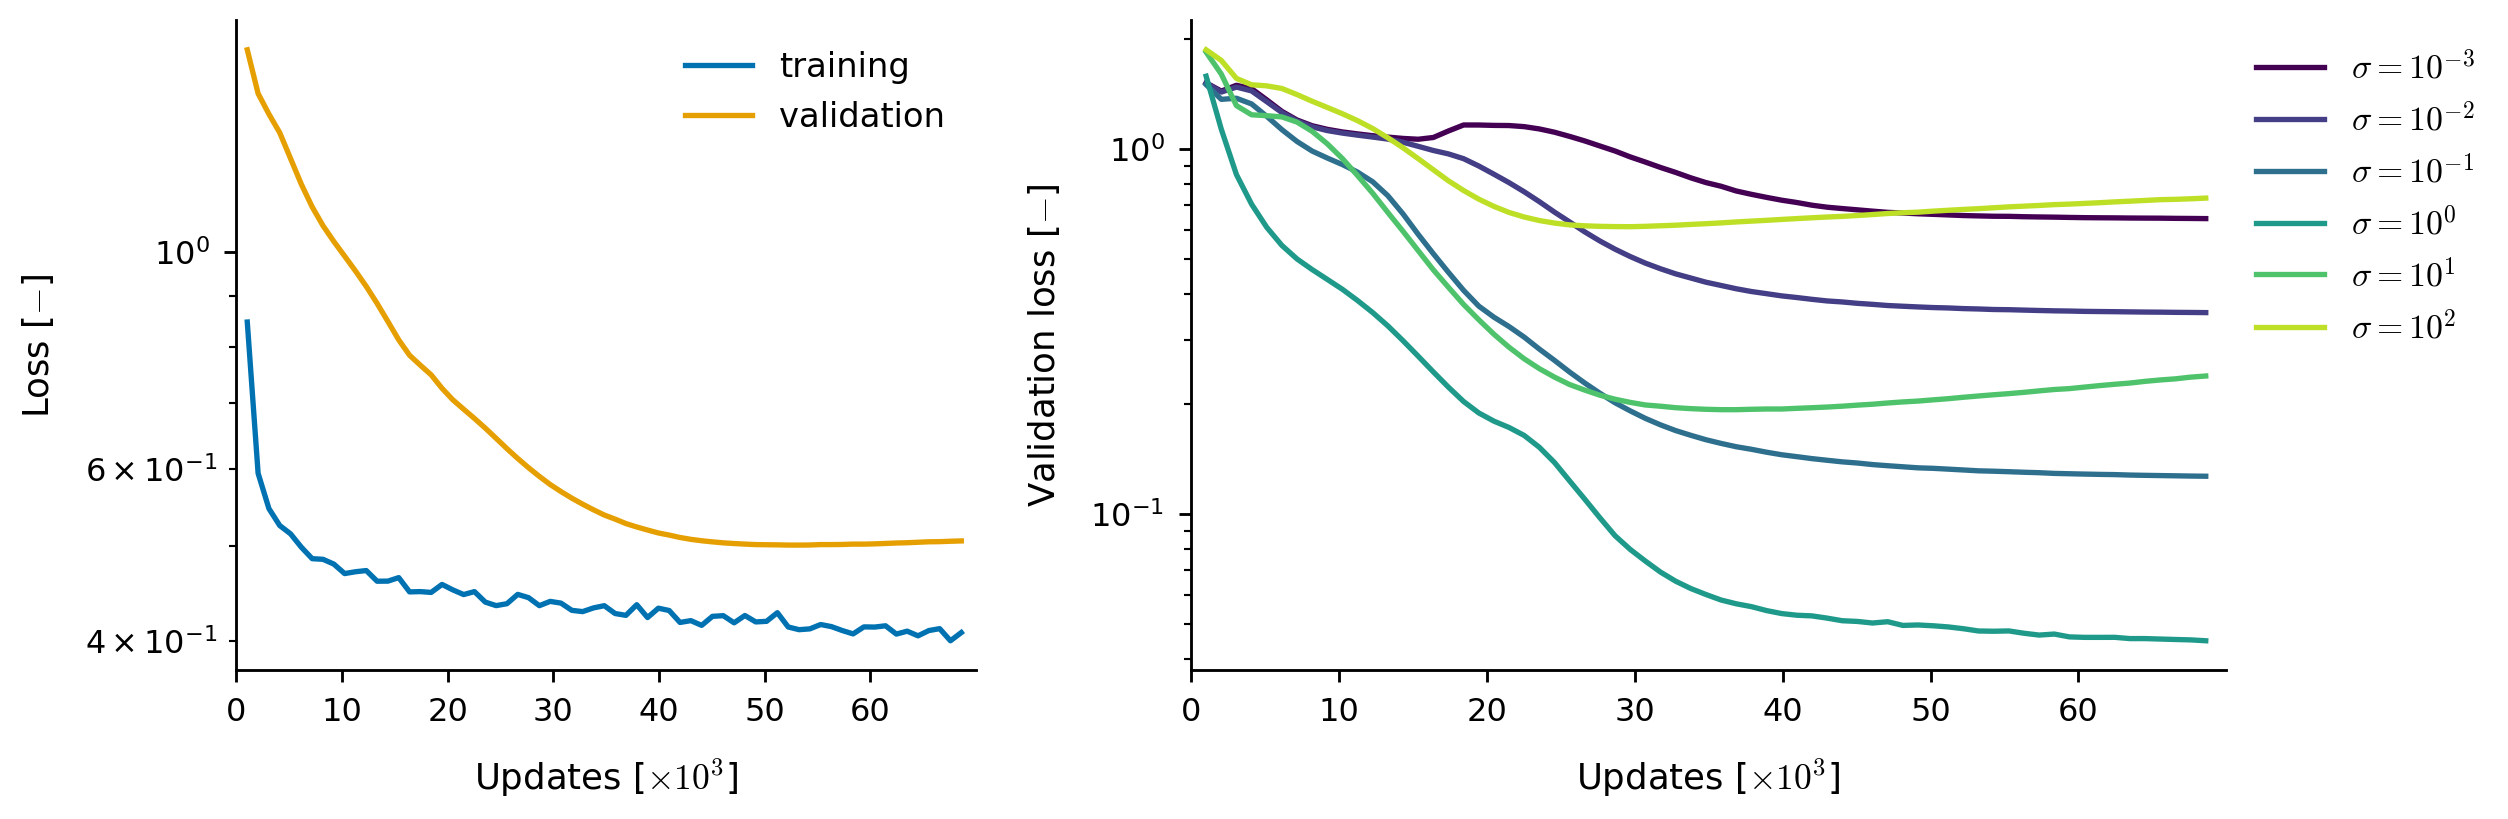
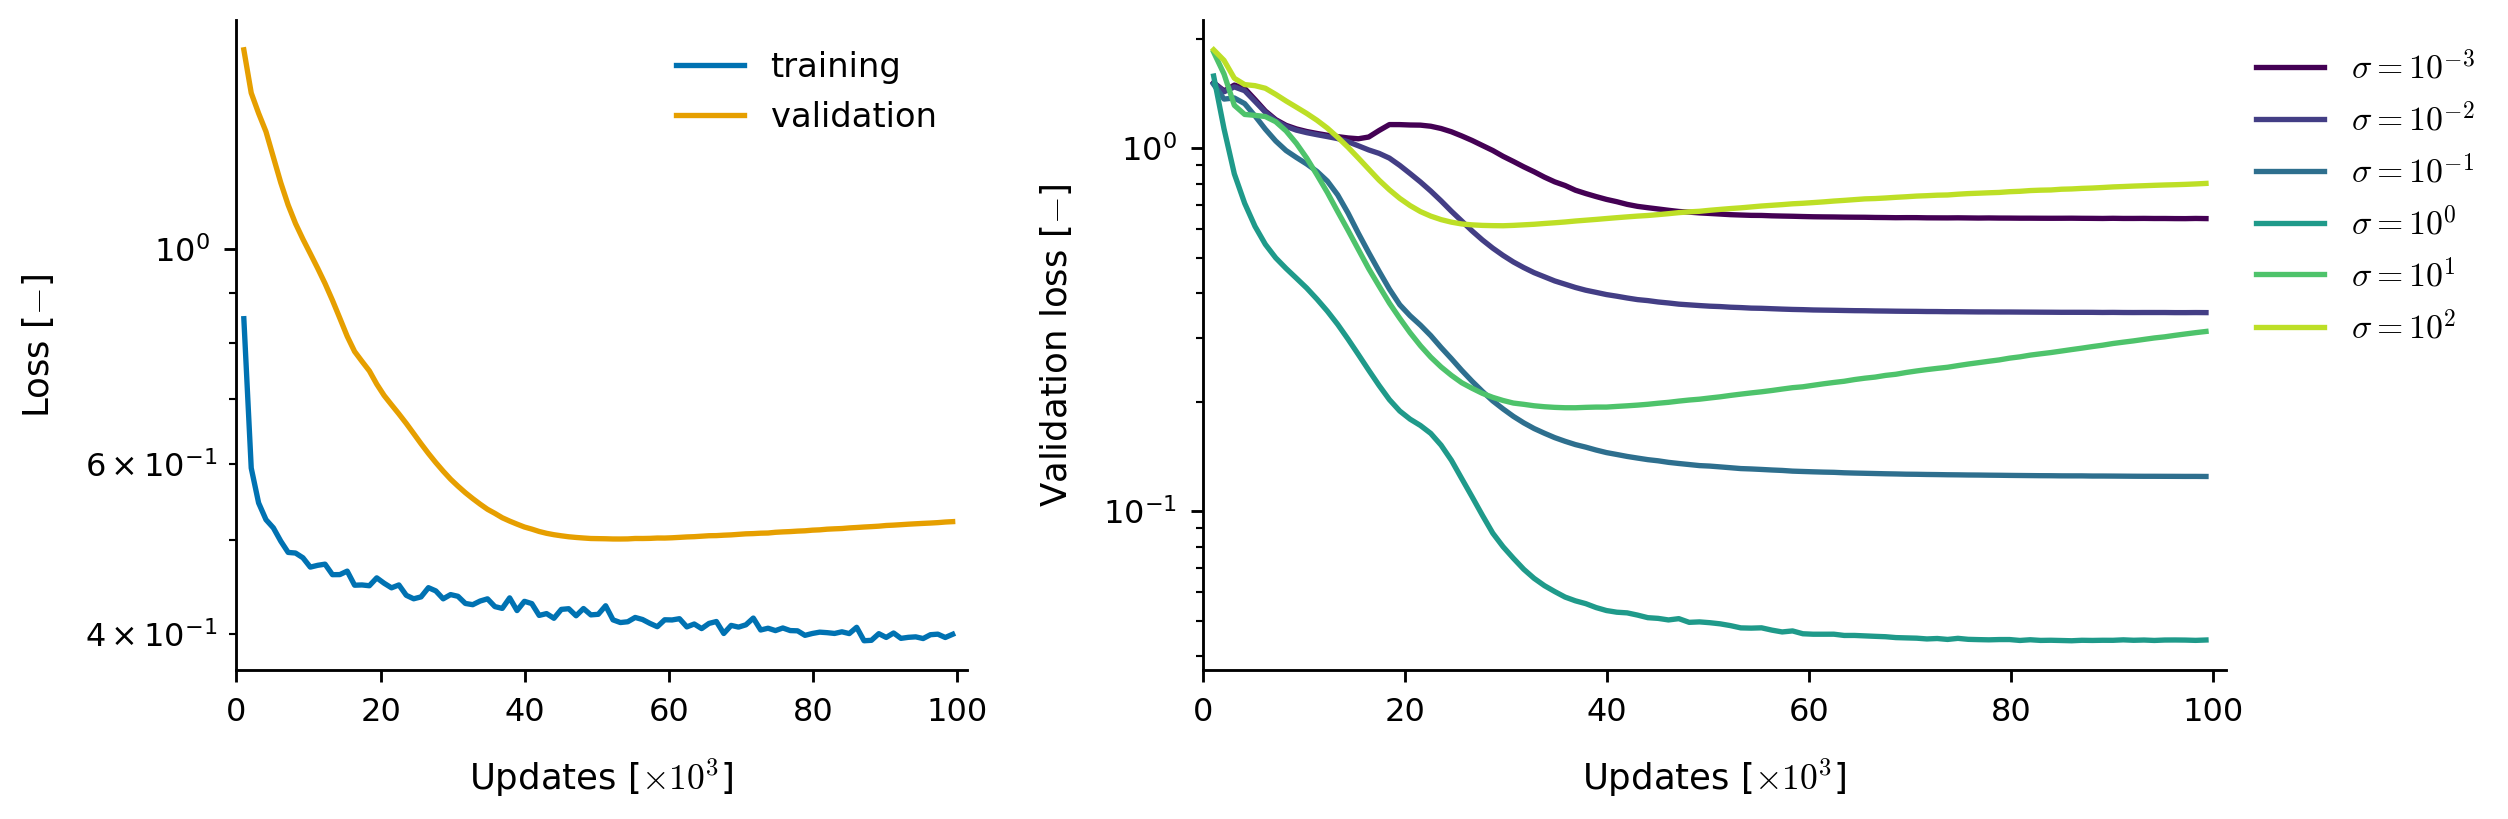
📝 Talks - Poseidon: prior samples at 99k updates

diff --git a/talks/2026-11-13-progress-meeting/talk.html b/talks/2026-11-13-progress-meeting/talk.html
@@ -318,13 +318,13 @@ University of Liège<sup>3</sup>, New York University<sup>4</sup>.
 </section>
 </foreignObject></svg><svg data-marpit-svg="" viewBox="0 0 1280 720"><foreignObject width="1280" height="720"><section id="42" data-paginate="true" data-class="result" data-theme="reef" data-lang="en" lang="en" class="result" data-marpit-pagination="41" style="--paginate:true;--class:result;--theme:reef;--lang:en;" data-marpit-pagination-total="45"><div class="fig">
 <p><img src="figures/poseidon/full-prior.png" alt="" /></p>
-<p><span class="caption"><b>Figure N.</b> Training and validation losses, then validation loss per noise level: the training is in progress (<mjx-container class="MathJax" jax="SVG"><svg style="vertical-align: -0.05ex;" xmlns="http://www.w3.org/2000/svg" width="2.262ex" height="1.557ex" role="img" focusable="false" viewBox="0 -666 1000 688"><g stroke="currentColor" fill="currentColor" stroke-width="0" transform="scale(1,-1)"><g data-mml-node="math"><g data-mml-node="mn"><path data-c="36" d="M42 313Q42 476 123 571T303 666Q372 666 402 630T432 550Q432 525 418 510T379 495Q356 495 341 509T326 548Q326 592 373 601Q351 623 311 626Q240 626 194 566Q147 500 147 364L148 360Q153 366 156 373Q197 433 263 433H267Q313 433 348 414Q372 400 396 374T435 317Q456 268 456 210V192Q456 169 451 149Q440 90 387 34T253 -22Q225 -22 199 -14T143 16T92 75T56 172T42 313ZM257 397Q227 397 205 380T171 335T154 278T148 216Q148 133 160 97T198 39Q222 21 251 21Q302 21 329 59Q342 77 347 104T352 209Q352 289 347 316T329 361Q302 397 257 397Z"></path><path data-c="38" d="M70 417T70 494T124 618T248 666Q319 666 374 624T429 515Q429 485 418 459T392 417T361 389T335 371T324 363L338 354Q352 344 366 334T382 323Q457 264 457 174Q457 95 399 37T249 -22Q159 -22 101 29T43 155Q43 263 172 335L154 348Q133 361 127 368Q70 417 70 494ZM286 386L292 390Q298 394 301 396T311 403T323 413T334 425T345 438T355 454T364 471T369 491T371 513Q371 556 342 586T275 624Q268 625 242 625Q201 625 165 599T128 534Q128 511 141 492T167 463T217 431Q224 426 228 424L286 386ZM250 21Q308 21 350 55T392 137Q392 154 387 169T375 194T353 216T330 234T301 253T274 270Q260 279 244 289T218 306L210 311Q204 311 181 294T133 239T107 157Q107 98 150 60T250 21Z" transform="translate(500,0)"></path></g></g></g></svg></mjx-container>k of <mjx-container class="MathJax" jax="SVG"><svg style="vertical-align: -0.05ex;" xmlns="http://www.w3.org/2000/svg" width="3.394ex" height="1.557ex" role="img" focusable="false" viewBox="0 -666 1500 688"><g stroke="currentColor" fill="currentColor" stroke-width="0" transform="scale(1,-1)"><g data-mml-node="math"><g data-mml-node="mn"><path data-c="31" d="M213 578L200 573Q186 568 160 563T102 556H83V602H102Q149 604 189 617T245 641T273 663Q275 666 285 666Q294 666 302 660V361L303 61Q310 54 315 52T339 48T401 46H427V0H416Q395 3 257 3Q121 3 100 0H88V46H114Q136 46 152 46T177 47T193 50T201 52T207 57T213 61V578Z"></path><path data-c="33" d="M127 463Q100 463 85 480T69 524Q69 579 117 622T233 665Q268 665 277 664Q351 652 390 611T430 522Q430 470 396 421T302 350L299 348Q299 347 308 345T337 336T375 315Q457 262 457 175Q457 96 395 37T238 -22Q158 -22 100 21T42 130Q42 158 60 175T105 193Q133 193 151 175T169 130Q169 119 166 110T159 94T148 82T136 74T126 70T118 67L114 66Q165 21 238 21Q293 21 321 74Q338 107 338 175V195Q338 290 274 322Q259 328 213 329L171 330L168 332Q166 335 166 348Q166 366 174 366Q202 366 232 371Q266 376 294 413T322 525V533Q322 590 287 612Q265 626 240 626Q208 626 181 615T143 592T132 580H135Q138 579 143 578T153 573T165 566T175 555T183 540T186 520Q186 498 172 481T127 463Z" transform="translate(500,0)"></path><path data-c="31" d="M213 578L200 573Q186 568 160 563T102 556H83V602H102Q149 604 189 617T245 641T273 663Q275 666 285 666Q294 666 302 660V361L303 61Q310 54 315 52T339 48T401 46H427V0H416Q395 3 257 3Q121 3 100 0H88V46H114Q136 46 152 46T177 47T193 50T201 52T207 57T213 61V578Z" transform="translate(1000,0)"></path></g></g></g></svg></mjx-container>k updates).</span></p>
+<p><span class="caption"><b>Figure N.</b> Training and validation losses, then validation loss per noise level: the training is in progress (99k of 131k updates).</span></p>
 </div>
 <div class="footnote">Note: the validation loss is the denoising loss on 256 fixed days of 2018–2020, at 8 fixed noise levels σ = 10<sup>−5</sup> to 10<sup>2</sup> (the left panel averages them), always with the same noise; the training draws σ at random.</div>
 </section>
 </foreignObject></svg><svg data-marpit-svg="" viewBox="0 0 1280 720"><foreignObject width="1280" height="720"><section id="43" data-paginate="true" data-class="result" data-theme="reef" data-lang="en" lang="en" class="result" data-marpit-pagination="42" style="--paginate:true;--class:result;--theme:reef;--lang:en;" data-marpit-pagination-total="45"><div class="fig">
 <p><img src="figures/poseidon/samples.png" alt="" /></p>
-<p><span class="caption"><b>Figure O.</b> A prior sample at <mjx-container class="MathJax" jax="SVG"><svg style="vertical-align: -0.05ex;" xmlns="http://www.w3.org/2000/svg" width="2.262ex" height="1.557ex" role="img" focusable="false" viewBox="0 -666 1000 688"><g stroke="currentColor" fill="currentColor" stroke-width="0" transform="scale(1,-1)"><g data-mml-node="math"><g data-mml-node="mn"><path data-c="36" d="M42 313Q42 476 123 571T303 666Q372 666 402 630T432 550Q432 525 418 510T379 495Q356 495 341 509T326 548Q326 592 373 601Q351 623 311 626Q240 626 194 566Q147 500 147 364L148 360Q153 366 156 373Q197 433 263 433H267Q313 433 348 414Q372 400 396 374T435 317Q456 268 456 210V192Q456 169 451 149Q440 90 387 34T253 -22Q225 -22 199 -14T143 16T92 75T56 172T42 313ZM257 397Q227 397 205 380T171 335T154 278T148 216Q148 133 160 97T198 39Q222 21 251 21Q302 21 329 59Q342 77 347 104T352 209Q352 289 347 316T329 361Q302 397 257 397Z"></path><path data-c="38" d="M70 417T70 494T124 618T248 666Q319 666 374 624T429 515Q429 485 418 459T392 417T361 389T335 371T324 363L338 354Q352 344 366 334T382 323Q457 264 457 174Q457 95 399 37T249 -22Q159 -22 101 29T43 155Q43 263 172 335L154 348Q133 361 127 368Q70 417 70 494ZM286 386L292 390Q298 394 301 396T311 403T323 413T334 425T345 438T355 454T364 471T369 491T371 513Q371 556 342 586T275 624Q268 625 242 625Q201 625 165 599T128 534Q128 511 141 492T167 463T217 431Q224 426 228 424L286 386ZM250 21Q308 21 350 55T392 137Q392 154 387 169T375 194T353 216T330 234T301 253T274 270Q260 279 244 289T218 306L210 311Q204 311 181 294T133 239T107 157Q107 98 150 60T250 21Z" transform="translate(500,0)"></path></g></g></g></svg></mjx-container>k updates for <mjx-container class="MathJax" jax="SVG"><svg style="vertical-align: -0.05ex;" xmlns="http://www.w3.org/2000/svg" width="2.262ex" height="1.557ex" role="img" focusable="false" viewBox="0 -666 1000 688"><g stroke="currentColor" fill="currentColor" stroke-width="0" transform="scale(1,-1)"><g data-mml-node="math"><g data-mml-node="mn"><path data-c="31" d="M213 578L200 573Q186 568 160 563T102 556H83V602H102Q149 604 189 617T245 641T273 663Q275 666 285 666Q294 666 302 660V361L303 61Q310 54 315 52T339 48T401 46H427V0H416Q395 3 257 3Q121 3 100 0H88V46H114Q136 46 152 46T177 47T193 50T201 52T207 57T213 61V578Z"></path><path data-c="35" d="M164 157Q164 133 148 117T109 101H102Q148 22 224 22Q294 22 326 82Q345 115 345 210Q345 313 318 349Q292 382 260 382H254Q176 382 136 314Q132 307 129 306T114 304Q97 304 95 310Q93 314 93 485V614Q93 664 98 664Q100 666 102 666Q103 666 123 658T178 642T253 634Q324 634 389 662Q397 666 402 666Q410 666 410 648V635Q328 538 205 538Q174 538 149 544L139 546V374Q158 388 169 396T205 412T256 420Q337 420 393 355T449 201Q449 109 385 44T229 -22Q148 -22 99 32T50 154Q50 178 61 192T84 210T107 214Q132 214 148 197T164 157Z" transform="translate(500,0)"></path></g></g></g></svg></mjx-container> August <mjx-container class="MathJax" jax="SVG"><svg style="vertical-align: -0.05ex;" xmlns="http://www.w3.org/2000/svg" width="4.525ex" height="1.557ex" role="img" focusable="false" viewBox="0 -666 2000 688"><g stroke="currentColor" fill="currentColor" stroke-width="0" transform="scale(1,-1)"><g data-mml-node="math"><g data-mml-node="mn"><path data-c="32" d="M109 429Q82 429 66 447T50 491Q50 562 103 614T235 666Q326 666 387 610T449 465Q449 422 429 383T381 315T301 241Q265 210 201 149L142 93L218 92Q375 92 385 97Q392 99 409 186V189H449V186Q448 183 436 95T421 3V0H50V19V31Q50 38 56 46T86 81Q115 113 136 137Q145 147 170 174T204 211T233 244T261 278T284 308T305 340T320 369T333 401T340 431T343 464Q343 527 309 573T212 619Q179 619 154 602T119 569T109 550Q109 549 114 549Q132 549 151 535T170 489Q170 464 154 447T109 429Z"></path><path data-c="30" d="M96 585Q152 666 249 666Q297 666 345 640T423 548Q460 465 460 320Q460 165 417 83Q397 41 362 16T301 -15T250 -22Q224 -22 198 -16T137 16T82 83Q39 165 39 320Q39 494 96 585ZM321 597Q291 629 250 629Q208 629 178 597Q153 571 145 525T137 333Q137 175 145 125T181 46Q209 16 250 16Q290 16 318 46Q347 76 354 130T362 333Q362 478 354 524T321 597Z" transform="translate(500,0)"></path><path data-c="31" d="M213 578L200 573Q186 568 160 563T102 556H83V602H102Q149 604 189 617T245 641T273 663Q275 666 285 666Q294 666 302 660V361L303 61Q310 54 315 52T339 48T401 46H427V0H416Q395 3 257 3Q121 3 100 0H88V46H114Q136 46 152 46T177 47T193 50T201 52T207 57T213 61V578Z" transform="translate(1000,0)"></path><path data-c="39" d="M352 287Q304 211 232 211Q154 211 104 270T44 396Q42 412 42 436V444Q42 537 111 606Q171 666 243 666Q245 666 249 666T257 665H261Q273 665 286 663T323 651T370 619T413 560Q456 472 456 334Q456 194 396 97Q361 41 312 10T208 -22Q147 -22 108 7T68 93T121 149Q143 149 158 135T173 96Q173 78 164 65T148 49T135 44L131 43Q131 41 138 37T164 27T206 22H212Q272 22 313 86Q352 142 352 280V287ZM244 248Q292 248 321 297T351 430Q351 508 343 542Q341 552 337 562T323 588T293 615T246 625Q208 625 181 598Q160 576 154 546T147 441Q147 358 152 329T172 282Q197 248 244 248Z" transform="translate(1500,0)"></path></g></g></g></svg></mjx-container> (validation), under the simulation of that day.</span></p>
+<p><span class="caption"><b>Figure O.</b> A prior sample at 99k updates for 15 August 2019 (validation), under the simulation of that day.</span></p>
 </div>
 </section>
 </foreignObject></svg><svg data-marpit-svg="" viewBox="0 0 1280 720"><foreignObject width="1280" height="720"><section id="44" data-paginate="true" data-theme="reef" data-lang="en" lang="en" data-marpit-pagination="43" style="--paginate:true;--theme:reef;--lang:en;" data-marpit-pagination-total="45">
